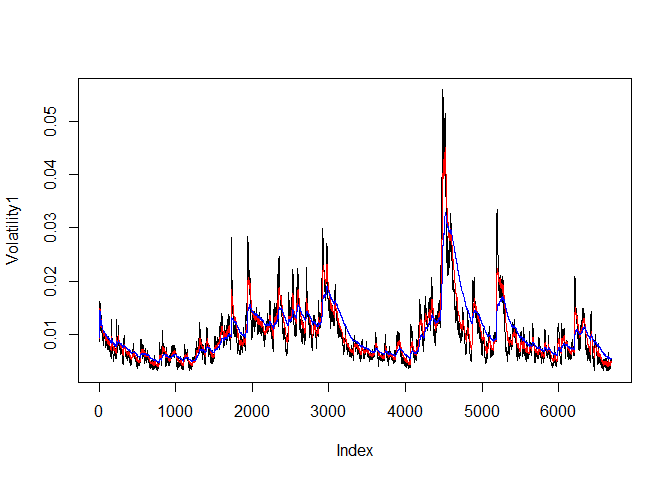
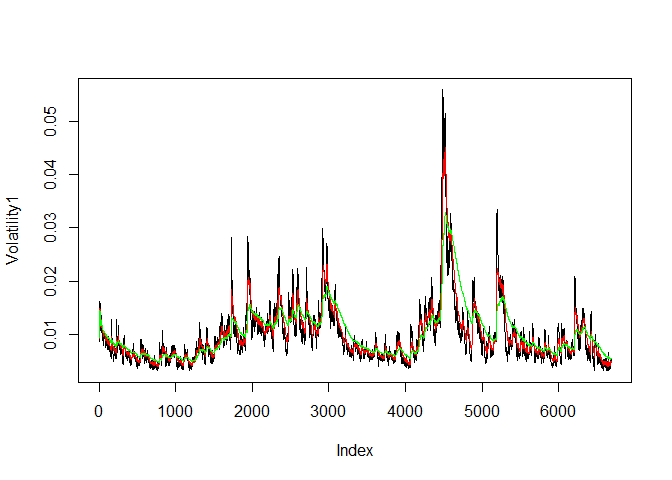
changed line colour

diff --git a/Analysis/Unit11BLTAssignement.html b/Analysis/Unit11BLTAssignement.html
@@ -186,8 +186,8 @@ Volatility3 &lt;- Volatility(100,SandPlog)</code></pre>
 <h2>Plot with volatility curves</h2>
 <pre class="r"><code>plot(Volatility1,type = &quot;l&quot;)
 lines(Volatility2,type = &quot;l&quot;,col=&quot;red&quot;)
-lines(Volatility3,type = &quot;l&quot;,col=&quot;blue&quot;)</code></pre>
[1 lines of base64/hex data omitted]
+lines(Volatility3,type = &quot;l&quot;,col=&quot;green&quot;)</code></pre>
[1 lines of base64/hex data omitted]
 </div>
 
 

diff --git a/Analysis/Unit11BLTAssignement.md b/Analysis/Unit11BLTAssignement.md
@@ -106,7 +106,7 @@ Volatility3 <- Volatility(100,SandPlog)
 ```r
 plot(Volatility1,type = "l")
 lines(Volatility2,type = "l",col="red")
-lines(Volatility3,type = "l",col="blue")
+lines(Volatility3,type = "l",col="green")
 ```
 
 ![](Unit11BLTAssignement_files/figure-html/unnamed-chunk-2-1.png)<!-- -->
